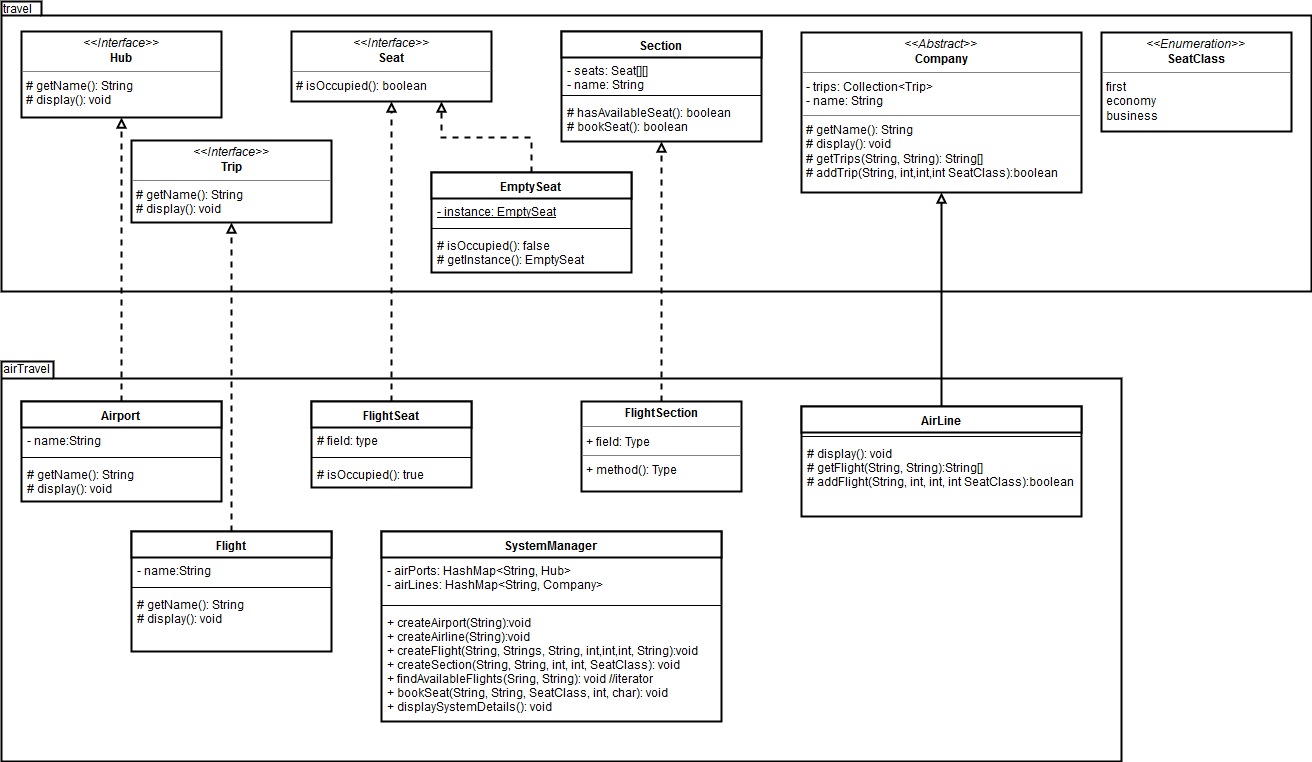
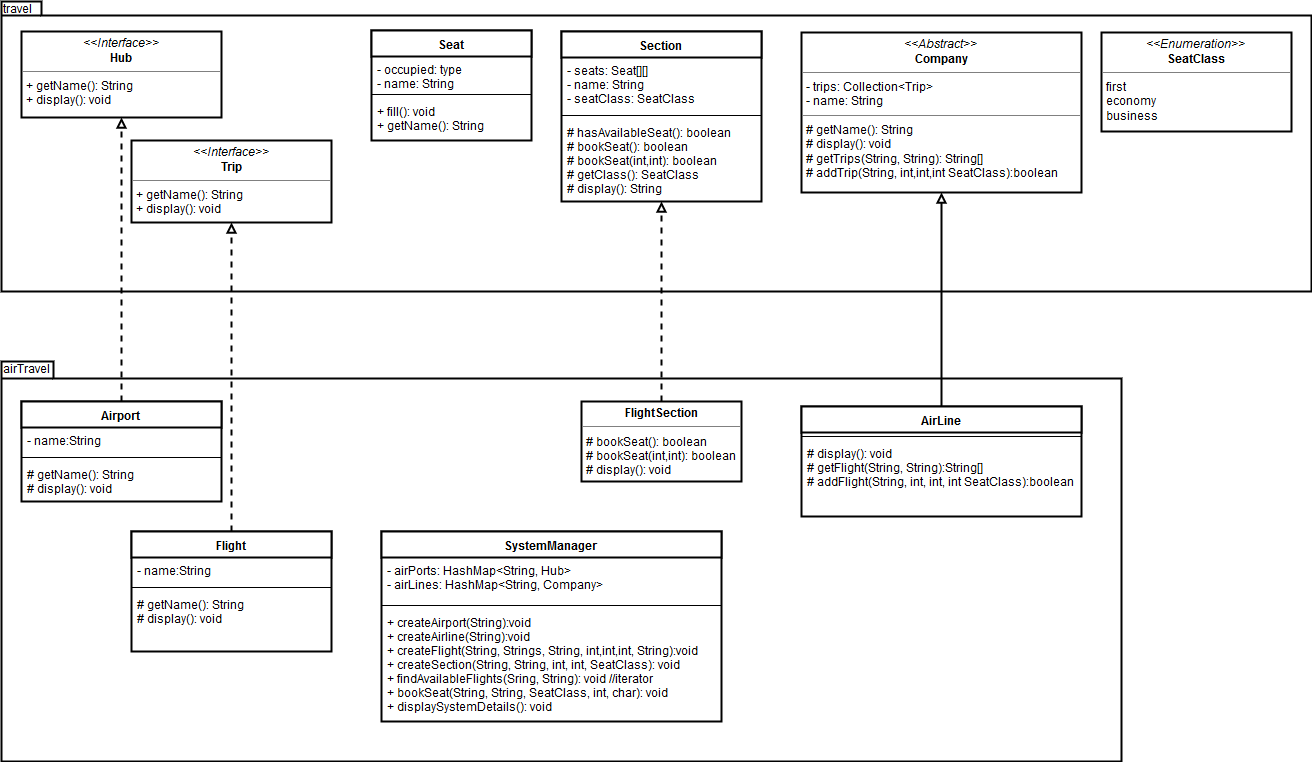
updated travel package

Changed region(s): [[0.2188, 0.0302, 0.5938, 0.3622], [0.2188, 0.5131, 0.375, 0.664], [0.4375, 0.5735, 0.5625, 0.664]]

diff --git a/src/travel/Section.java b/src/travel/Section.java
@@ -1,14 +1,55 @@
 package travel;
 
-public abstract class Section {
+public abstract class Section 
+{
 	private Seat[][] seats;
 	private String name;
 	
-	public Section(String name) {
-		
+	protected Section(String name, int numRows, int numCols) 
+	{
+		seats = new Seat[numRows][];
+		for(int i = 0; i < numRows; i++) 
+		{
+			seats[i] = new Seat[numCols];
+			for(int j = 0; j < numCols; j++) 
+				seats[i][j] = new Seat(i,j);
+		}
+		this.name = name;
 	}
 	
-	public boolean hasAvailableSeat() {
+	protected boolean hasAvailableSeat() 
+	{
+		for(int i = 0; i < seats.length; i++) 
+			for(int j = 0; j < seats[i].length; j++)
+				if(!seats[i][j].isOccupied())
+					return true;
 		return false;
+	}
+	
+	protected boolean bookSeat() 
+	{
+		for(int i = 0; i < seats.length; i++) 
+			for(int j = 0; j < seats[i].length; j++)
+				if(!seats[i][j].isOccupied()) {
+					seats[i][j].fill();
+					return true;
+				}
+			
+		
+		return false;
+	}
+	protected boolean bookSeat(int row, int col) 
+	{
+		if(!seats[row][col].isOccupied()) 
+		{
+			seats[row][col].fill();
+			return true;
+		}
+		return false;
+			
+	}
+	protected String getName() 
+	{
+		return this.name;
 	}
 }

diff --git a/src/travel/Seat.java b/src/travel/Seat.java
@@ -1,5 +1,36 @@
 package travel;
 
-public interface Seat {
-	public boolean isOccupied();
+public class Seat 
+{
+	private String name;
+	private boolean occupied;
+	
+	public Seat(String name) 
+	{
+		this.name = name;
+		this.occupied = false;
+	}
+	public Seat(int row, int col) {
+		this(convertName(row,col));
+	}
+	
+	private static String convertName(int row, int col) 
+	{
+		return (char)(col + 65) + "" + row;
+	}
+	
+	public void fill() 
+	{
+		this.occupied = true;
+	}
+	
+	public String getName() 
+	{
+		return this.name;
+	}
+	
+	public boolean isOccupied() 
+	{
+		return this.occupied;
+	}
 }
